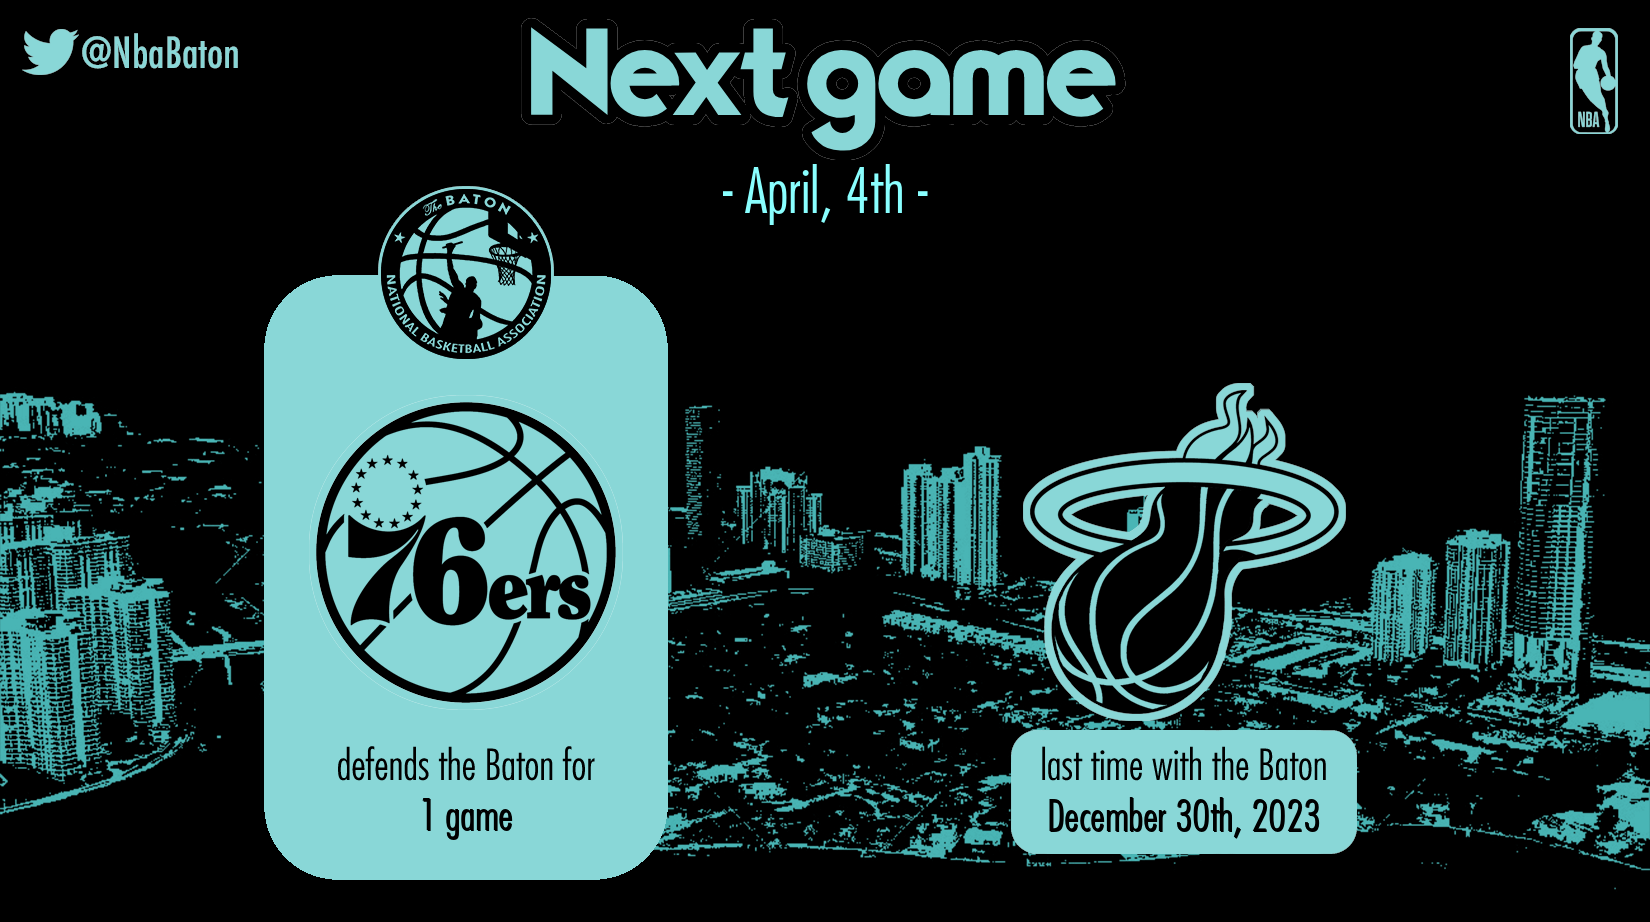
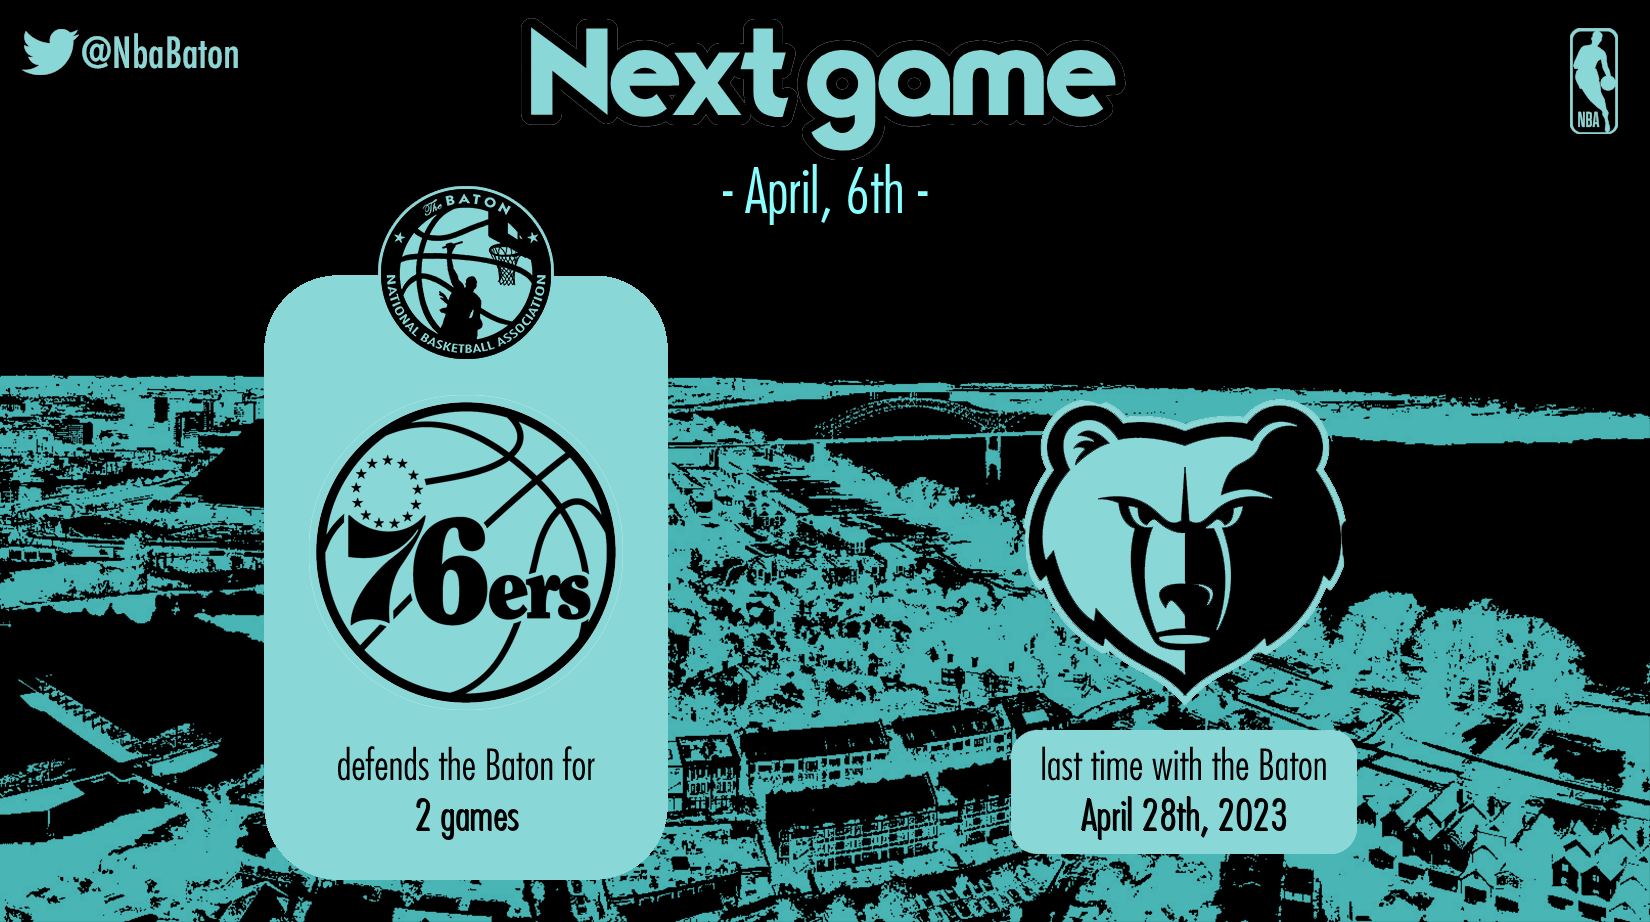
Add changes

Changed region(s): [[0.0, 0.3948, 1.0, 1.0], [0.4945, 0.1822, 0.5255, 0.243], [0.2473, 0.8807, 0.3091, 0.9111]]

diff --git a/index.md b/index.md
@@ -1,6 +1,6 @@
 <center><div class="LaBoite"><h2>Current Defender</h2>
 
-<img src="https://upload.wikimedia.org/wikipedia/en/0/0e/Philadelphia_76ers_logo.svg" width="100" title="Philadelphia 76ers"><p style="font-size:20px; font-family: FuturaHeavy;">For 1 game.</p>
+<img src="https://upload.wikimedia.org/wikipedia/en/0/0e/Philadelphia_76ers_logo.svg" width="100" title="Philadelphia 76ers"><p style="font-size:20px; font-family: FuturaHeavy;">For 2 games.</p>
 
 </div><br>
 <img src="https://raw.githubusercontent.com/LouHeb/NBABaton/gh-pages/Stock/0_GameDay.png" width="1000" title="Next NBA Baton Game">
@@ -28,7 +28,7 @@
 <tr><td style="text-align:center;font-size:13px;">  <img src="https://upload.wikimedia.org/wikipedia/en/2/25/New_York_Knicks_logo.svg" width="20" title="New York Knicks"></td><td style="text-align:center;font-size:13px;">  12</td><td style="text-align:center;font-size:13px;">  399</td><td style="text-align:center;font-size:13px;">  March 21st, 2024</td></tr>
 <tr><td style="text-align:center;font-size:13px;">  <img src="https://upload.wikimedia.org/wikipedia/en/5/5d/Oklahoma_City_Thunder.svg" width="20" title="Oklahoma City Thunder"></td><td style="text-align:center;font-size:13px;">  9</td><td style="text-align:center;font-size:13px;">  203</td><td style="text-align:center;font-size:13px;">  April 2nd, 2024</td></tr>
 <tr><td style="text-align:center;font-size:13px;">  <img src="https://upload.wikimedia.org/wikipedia/en/1/10/Orlando_Magic_logo.svg" width="20" title="Orlando Magic"></td><td style="text-align:center;font-size:13px;">  8</td><td style="text-align:center;font-size:13px;">  79</td><td style="text-align:center;font-size:13px;">  March 13th, 2022</td></tr>
-<tr><td style="text-align:center;font-size:13px;">  <img src="https://upload.wikimedia.org/wikipedia/en/0/0e/Philadelphia_76ers_logo.svg" width="20" title="Philadelphia 76ers"></td><td style="text-align:center;font-size:13px;">  11</td><td style="text-align:center;font-size:13px;">  443</td><td style="text-align:center;color: red; font-family: FuturaHeavy;font-size:13px;">  Current defender</td></tr>
+<tr><td style="text-align:center;font-size:13px;">  <img src="https://upload.wikimedia.org/wikipedia/en/0/0e/Philadelphia_76ers_logo.svg" width="20" title="Philadelphia 76ers"></td><td style="text-align:center;font-size:13px;">  11</td><td style="text-align:center;font-size:13px;">  444</td><td style="text-align:center;color: red; font-family: FuturaHeavy;font-size:13px;">  Current defender</td></tr>
 <tr><td style="text-align:center;font-size:13px;">  <img src="https://upload.wikimedia.org/wikipedia/en/d/dc/Phoenix_Suns_logo.svg" width="20" title="Phoenix Suns"></td><td style="text-align:center;font-size:13px;">  10</td><td style="text-align:center;font-size:13px;">  202</td><td style="text-align:center;font-size:13px;">  March 29th, 2024</td></tr>
 <tr><td style="text-align:center;font-size:13px;">  <img src="https://upload.wikimedia.org/wikipedia/en/2/21/Portland_Trail_Blazers_logo.svg" width="20" title="Portland Trail Blazers"></td><td style="text-align:center;font-size:13px;">  12</td><td style="text-align:center;font-size:13px;">  168</td><td style="text-align:center;font-size:13px;">  October 26th, 2022</td></tr>
 <tr><td style="text-align:center;font-size:13px;">  <img src="https://upload.wikimedia.org/wikipedia/en/c/c7/SacramentoKings.svg" width="20" title="Sacramento Kings"></td><td style="text-align:center;font-size:13px;">  12</td><td style="text-align:center;font-size:13px;">  328</td><td style="text-align:center;font-size:13px;">  March 16th, 2024</td></tr>
@@ -39,7 +39,7 @@
 
 </table><br><h2>The History</h2><table><tr><th style="text-align:center; font-family: FuturaHeavy">  Winning date</th><th style="text-align:center; font-family: FuturaHeavy"> NBA Baton defender</th><th style="text-align:center; font-family: FuturaHeavy">  # of games</th></tr>
 
-<tr><td style="text-align:center">  April 2nd, 2024</td><td style="text-align:center"><img src="https://upload.wikimedia.org/wikipedia/en/0/0e/Philadelphia_76ers_logo.svg" width="30" title="Philadelphia 76ers"></td><td style="text-align:center"> 1 </td></tr>
+<tr><td style="text-align:center">  April 2nd, 2024</td><td style="text-align:center"><img src="https://upload.wikimedia.org/wikipedia/en/0/0e/Philadelphia_76ers_logo.svg" width="30" title="Philadelphia 76ers"></td><td style="text-align:center"> 2 </td></tr>
 <tr><td style="text-align:center">  March 29th, 2024</td><td style="text-align:center"><img src="https://upload.wikimedia.org/wikipedia/en/5/5d/Oklahoma_City_Thunder.svg" width="30" title="Oklahoma City Thunder"></td><td style="text-align:center"> 2 </td></tr>
 <tr><td style="text-align:center">  March 27th, 2024</td><td style="text-align:center"><img src="https://upload.wikimedia.org/wikipedia/en/d/dc/Phoenix_Suns_logo.svg" width="30" title="Phoenix Suns"></td><td style="text-align:center"> 1 </td></tr>
 <tr><td style="text-align:center">  March 21st, 2024</td><td style="text-align:center"><img src="https://upload.wikimedia.org/wikipedia/en/7/76/Denver_Nuggets.svg" width="30" title="Denver Nuggets"></td><td style="text-align:center"> 3 </td></tr>
